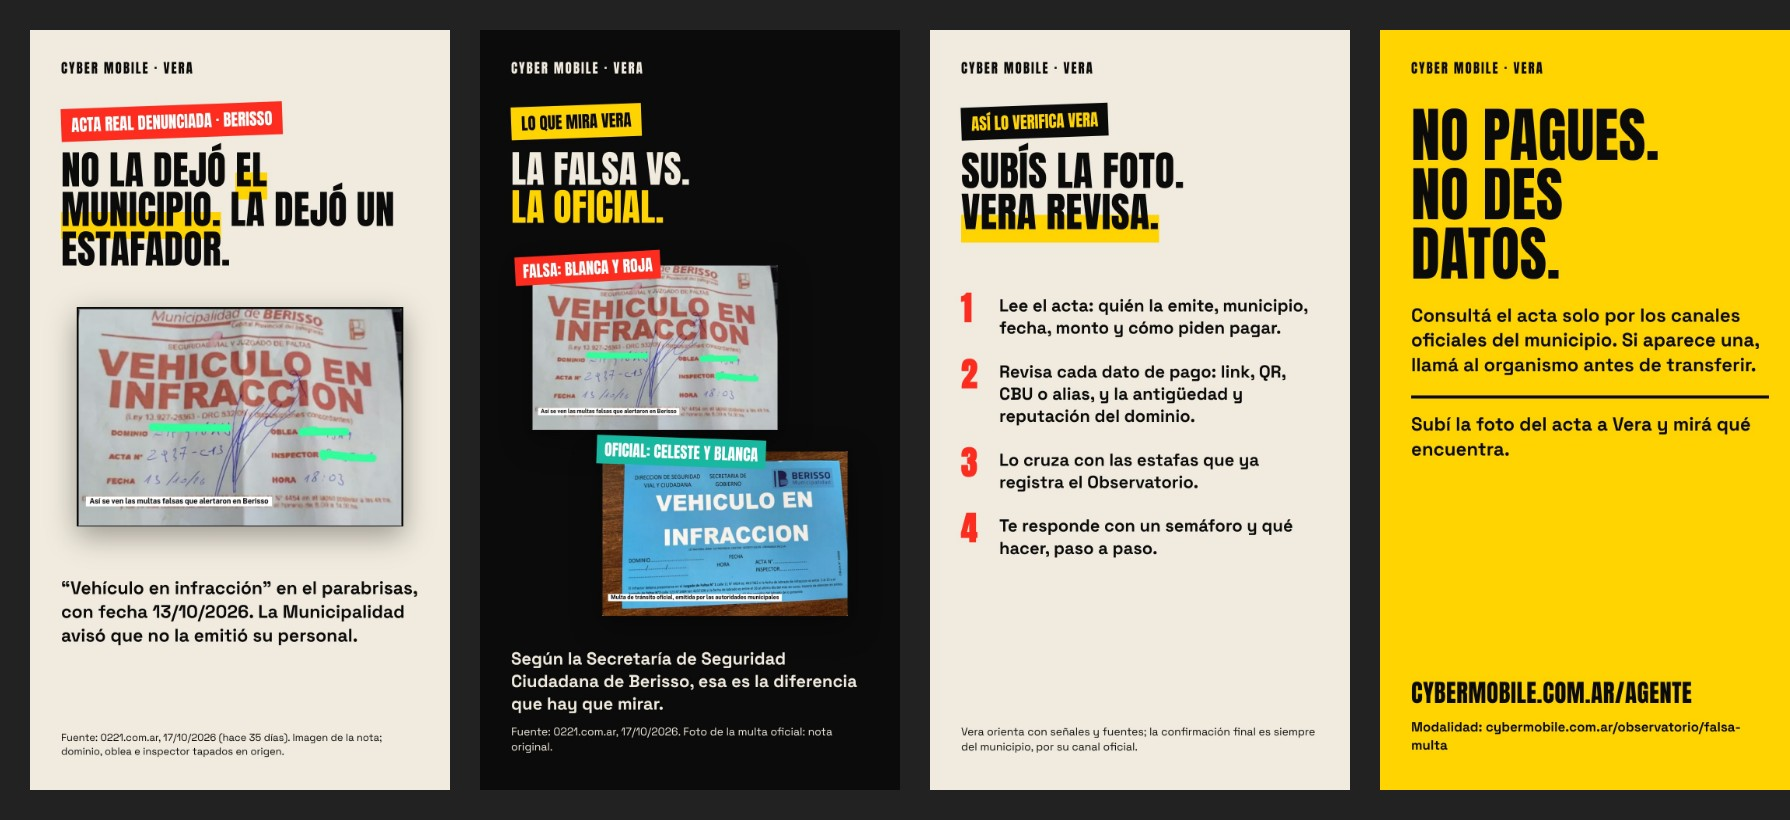
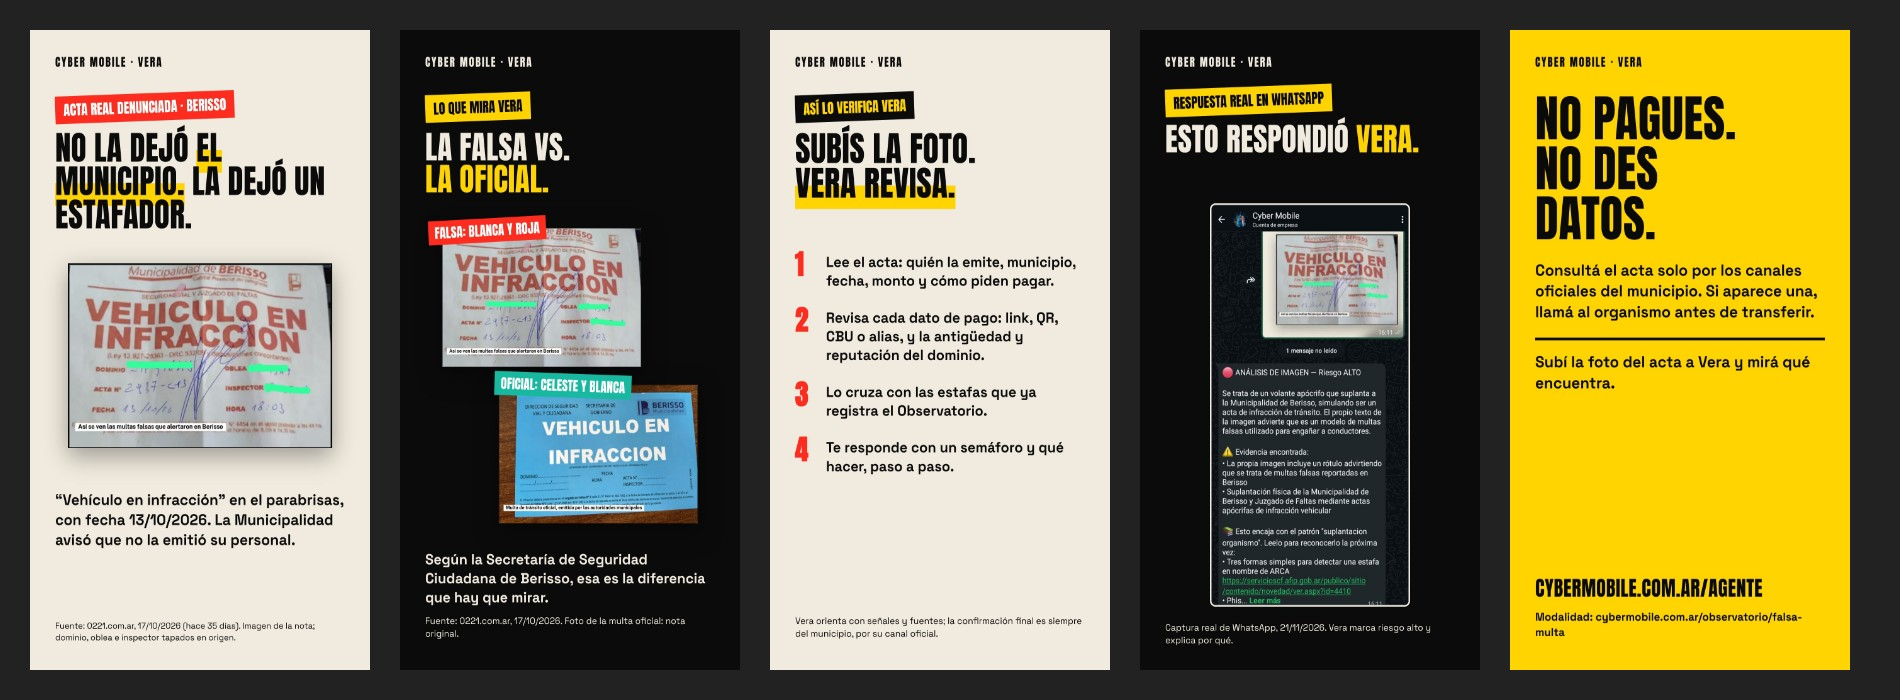
Redes: falsa multa con la respuesta real de Vera en WhatsApp (5 historias)
Claude-Session: https://claude.ai/code/session_01Fx8nG8n9zT2oynar78L9kM

diff --git a/scripts/redes/propuestas/2026-11-21/html/multa-f5.html b/scripts/redes/propuestas/2026-11-21/html/multa-f5.html
@@ -1,0 +1,19 @@
+<html><head><meta charset=utf-8><style>
+@font-face{font-family:AN;src:url(/home/user/Cyber-Mobile/tarjetas/fuentes/Anton-Regular.ttf)}
+@font-face{font-family:SG;font-weight:700;src:url(/home/user/Cyber-Mobile/tarjetas/fuentes/SpaceGrotesk-Bold.ttf)}
+@font-face{font-family:SG;font-weight:400;src:url(/home/user/Cyber-Mobile/tarjetas/fuentes/SpaceGrotesk-Regular.ttf)}
+*{box-sizing:border-box;margin:0}body{width:1080px;height:1920px;overflow:hidden;font-family:SG,sans-serif;position:relative}
+.h{font-family:AN;text-transform:uppercase;line-height:1;letter-spacing:.5px}
+.pad{position:absolute;left:80px;right:80px}
+.brand{position:absolute;left:80px;top:70px;font-family:AN;font-size:34px;letter-spacing:4px}
+.tag{display:inline-block;font-family:AN;font-size:42px;padding:10px 26px;background:#ff2d1f;color:#fff;transform:rotate(-2deg);text-transform:uppercase}
+.mk{background:linear-gradient(transparent 55%,#ffd400 55%)}
+.src{font-size:29px;line-height:1.35}
+.url{font-family:AN;font-size:54px;letter-spacing:1px}
+.img{position:absolute;box-shadow:0 24px 70px rgba(0,0,0,.35);border:5px solid #0b0b0b;background:#fff}
+.img img{display:block;width:100%}
+.mkb{position:absolute;border:8px solid #ff2d1f;border-radius:22px;transform:rotate(-.8deg)}
+.mkl{position:absolute;font-family:AN;font-size:40px;background:#ff2d1f;color:#fff;padding:6px 20px;text-transform:uppercase;transform:rotate(-2deg);white-space:nowrap}
+body{background:#ffd400;color:#0b0b0b}</style></head><body><div class=brand>CYBER MOBILE · VERA</div><div class="pad" style="top:190px"><div class=h style="font-size:150px">NO PAGUES.<br>NO DES<br>DATOS.</div><div style="font-size:48px;line-height:1.3;font-weight:700;margin-top:50px">Consultá el acta solo por los canales oficiales del municipio. Si aparece una, llamá al organismo antes de transferir.</div>
+ <div style="font-size:48px;line-height:1.3;font-weight:700;margin-top:46px;border-top:8px solid #0b0b0b;padding-top:34px">Subí la foto del acta a Vera y mirá qué encuentra.</div></div>
+ <div class="pad url" style="bottom:200px;font-size:62px">CYBERMOBILE.COM.AR/AGENTE</div><div class="pad src" style="bottom:90px;font-size:34px;font-weight:700">Modalidad: cybermobile.com.ar/observatorio/falsa-multa</div></body></html>

diff --git a/scripts/redes/propuestas/2026-11-21/html/multa-f4.html b/scripts/redes/propuestas/2026-11-21/html/multa-f4.html
@@ -14,6 +14,6 @@
 .img img{display:block;width:100%}
 .mkb{position:absolute;border:8px solid #ff2d1f;border-radius:22px;transform:rotate(-.8deg)}
 .mkl{position:absolute;font-family:AN;font-size:40px;background:#ff2d1f;color:#fff;padding:6px 20px;text-transform:uppercase;transform:rotate(-2deg);white-space:nowrap}
-body{background:#ffd400;color:#0b0b0b}</style></head><body><div class=brand>CYBER MOBILE · VERA</div><div class="pad" style="top:190px"><div class=h style="font-size:150px">NO PAGUES.<br>NO DES<br>DATOS.</div><div style="font-size:48px;line-height:1.3;font-weight:700;margin-top:50px">Consultá el acta solo por los canales oficiales del municipio. Si aparece una, llamá al organismo antes de transferir.</div>
- <div style="font-size:48px;line-height:1.3;font-weight:700;margin-top:46px;border-top:8px solid #0b0b0b;padding-top:34px">Subí la foto del acta a Vera y mirá qué encuentra.</div></div>
- <div class="pad url" style="bottom:200px;font-size:62px">CYBERMOBILE.COM.AR/AGENTE</div><div class="pad src" style="bottom:90px;font-size:34px;font-weight:700">Modalidad: cybermobile.com.ar/observatorio/falsa-multa</div></body></html>
+body{background:#0b0b0b;color:#f1ebdf}</style></head><body><div class=brand>CYBER MOBILE · VERA</div><div class="pad" style="top:170px"><span class=tag style="background:#ffd400;color:#0b0b0b">Respuesta real en WhatsApp</span><div class=h style="font-size:96px;margin-top:26px">ESTO RESPONDIÓ <span style="color:#ffd400">VERA.</span></div></div>
+ <div style="position:absolute;left:222px;top:520px;width:636px;height:1210px;overflow:hidden;border:5px solid #f1ebdf;border-radius:18px;background:#000"><img src="/home/user/Cyber-Mobile/scripts/redes/propuestas/2026-11-21/real/vera-whatsapp.png" style="display:block;width:636px;margin-top:-60px"></div>
+ <div class="pad src" style="bottom:70px;color:#f1ebdf;font-size:28px">Captura real de WhatsApp, 21/11/2026. Vera marca riesgo alto y explica por qué.</div></body></html>

diff --git a/scripts/redes/propuestas/2026-11-21/html/m.html b/scripts/redes/propuestas/2026-11-21/html/m.html
@@ -1,1 +1,1 @@
-<html><body style="margin:0;background:#222;display:flex;gap:30px;padding:30px"><img src="file:///home/user/Cyber-Mobile/scripts/redes/propuestas/2026-11-21/multa-f1.jpg" style="width:420px"><img src="file:///home/user/Cyber-Mobile/scripts/redes/propuestas/2026-11-21/multa-f2.jpg" style="width:420px"><img src="file:///home/user/Cyber-Mobile/scripts/redes/propuestas/2026-11-21/multa-f3.jpg" style="width:420px"><img src="file:///home/user/Cyber-Mobile/scripts/redes/propuestas/2026-11-21/multa-f4.jpg" style="width:420px"></body></html>
+<html><body style="margin:0;background:#222;display:flex;gap:30px;padding:30px"><img src="file:///home/user/Cyber-Mobile/scripts/redes/propuestas/2026-11-21/multa-f1.jpg" style="width:340px"><img src="file:///home/user/Cyber-Mobile/scripts/redes/propuestas/2026-11-21/multa-f2.jpg" style="width:340px"><img src="file:///home/user/Cyber-Mobile/scripts/redes/propuestas/2026-11-21/multa-f3.jpg" style="width:340px"><img src="file:///home/user/Cyber-Mobile/scripts/redes/propuestas/2026-11-21/multa-f4.jpg" style="width:340px"><img src="file:///home/user/Cyber-Mobile/scripts/redes/propuestas/2026-11-21/multa-f5.jpg" style="width:340px"></body></html>
